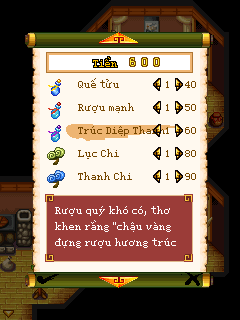
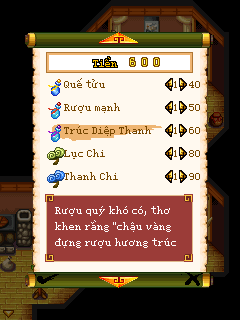
tsky: T7b bố cục cửa hàng (giá căn phải, khối số trước giá)
Claude-Session: https://claude.ai/code/session_01UHwqGer2W7xK9ARAi6GfrR

diff --git a/tsky/docs/render.md b/tsky/docs/render.md
@@ -182,7 +182,7 @@ Build: `./build.sh` (mặc định dùng `dich/dp_work/final/text_can_dich.tsv`,
 - **CG kể chuyện + mọi ô mô tả** (`Main/j.a(G,String,IIIII)` thay thân → `VH.scroll`): không còn cuộn 1 px/khung làm cắt nửa dòng ở mép clip. Bước dòng 16 px, mỗi trang `v = h/16` dòng nguyên (h=60 → 3 dòng, h=130 → 8 dòng), giữ `20 + 12·v` khung (15 khung/giây) rồi sang trang kế, hết thì về trang đầu; vừa khung thì vẽ tĩnh. Bỏ các dòng rỗng đầu (`"^^"+dk`). Ảnh 09, 10, 14, 15, 19, 21.
 - **Phím mềm**: `Main/j.y/z` ("Thoát"/"Quay lại", gốc `x = t - k.w*2 - 1`) → `VH.drawRight` (sát lề phải theo độ rộng thật: `x + 2·SW - w`); "Tạm dừng" (`j.i`) → `VH.drawMid`. Ảnh 06 (đo thật `Xác nhận` trái, `Quay lại` phải).
 - **Menu chính** (`Main/j.f`): mũi tên đo theo nhãn đang chọn (thay `stringArray[1]` bằng `stringArray[cR]`, 2 chỗ); ẩn "Game khác" (`更多游戏`, chỉ số 2) bằng `VH.menuSkip(cR, busy)` chèn đầu `f()`: khi không có màn con nào mở thì nhảy qua chỉ số 2 theo chiều bấm (từ <2 lên 3, từ >2 lùi 1); mã `platformRequest` vẫn nằm đó nhưng không tới được. Ảnh 01, 02.
-- **Cửa hàng** (`Main/e.a(G,String[][],…)` kiểu 1): cột số lượng/giá đặt sau tên **dài nhất** (`VH.widest` cache theo mảng) chứ không phải tên hàng đầu, rộng cột bị chặn 69 px (`VH.colWidth`), khoảng cách 20 → 6. Tên > 69 px đè lên cột số (danh sách ở PLAN.md, mục Vướng mắc). Ảnh 21, 22.
+- **Cửa hàng** (`Main/e.a(G,String[][],…)` kiểu 1, sửa ở T7b): giá căn phải sát mép trong khung (R = n2+n4-5), khối ◀số▶ ngay trước giá (`VH.shopCol` = R - 26 - rộng giá), tên bắt đầu ở n2+4 và dùng phần còn lại (đủ cho "Liệt Diễm Phiến" 88 px + giá 1000). Ảnh 21, 22, 26 (trong trận).
 - **Cache chuỗi nối**: `new StringBuffer().append(S)…toString()` chỉ gồm lệnh nạp thuần + `append(String)` (50 chỗ trong `Main/j`, `Main/e`, `rf/b`, xem `logs/patch.log` dòng `concat cache`) thay bằng `VH.cat(a,b,c,d,slot)`: giữ kết quả khi các phần tử cùng tham chiếu → hộp xác nhận (`string + "^"`), mô tả vật phẩm (`E[..][1] + "^"`), CG (`"^^" + dk + "^"`) không cấp phát mỗi khung; `VH.wrap` (ngắt dòng hộp xác nhận/trợ giúp) vốn đã cache theo nội dung.
 - **Dấu cách khi nối chuỗi dịch với biến** (`Patch.spaceConcat`): bản Trung ghép `tên + "放生成功"`, `"" + cấp + "级"`, `tên + "x" + n + "购买成功！"` không cần dấu cách, bản Việt thì dính ("5cấp", "Nhox1Mua thành công!"). Với mọi chuỗi nối trong `Main/j`/`Main/e`, hằng LDC là chuỗi dịch (có trong cột dịch của hàng `class:`) kề một phần tử không phải LDC (biến/số) được chèn dấu cách ở phía kề ("5 cấp", "Liệt Diễm Phiến x1=1000 vàng. Mua không?"); hằng `"x"` đứng sau biến → `" x"`. 45 chỗ, danh sách trong `logs/patch.log` (`space concat`). Không đụng `dich/`.
 - **Đã xem không cần sửa**: tên chiêu (ô 80 px, xem Vướng mắc), tên trạng thái, thông báo giữa màn (`di`, tự co theo số dòng), mẹo màn tải (2–3 dòng căn giữa), nhiệm vụ, tiên sủng đại toàn (tên đỏ căn giữa, mô tả cuộn trang), kho/ô lưu ("Trống" thay "空" nhờ `VH.map`), túi đồ (tên + `    xN` vừa khung 148 px kể cả "Trúc Diệp Thanh    x12"), hộp xác nhận 2 dòng (câu dài nhất vẫn 2 dòng).

diff --git a/tsky/PLAN.md b/tsky/PLAN.md
@@ -102,6 +102,7 @@ Trạng thái: `[ ]` chưa, `[~]` đang làm (ghi tên), `[x]` xong.
 
 ### Giai đoạn 4 — Hoàn thiện (A1)
 - [x] T7 Bố cục: khung thoại ≥3 dòng, ngắt px ở dấu cách, phân trang, canh giữa theo độ rộng thật, các màn menu/túi đồ/cửa hàng/chiến đấu/tiên sủng đại toàn/mẹo. Hoàn thành khi: ảnh chụp từng màn không tràn, không cắt đôi từ, không sót Hán.
+- [x] T7b Cửa hàng: giá căn phải sát mép trong khung, khối ◀số▶ ngay trước giá, tên dùng phần còn lại (chứa 88 px), không rút tên.
 - [x] T8 Ảnh có chữ: soát 327 PNG (`scripts/contact_sheet.py` ra lưới ảnh), danh sách `docs/anh_co_chu.tsv`, vẽ lại vào `res_vi/`. Hoàn thành khi: mọi ảnh có chữ Hán đã có bản Việt, `pixeltext check --size 12` OK.
 - [ ] T9 (ảnh 320 xong: `res_vi_320/Image/menu.png`, `namp.png`) Bản 320x240 theo QĐ 10. Hoàn thành khi: chụp FreeJ2ME 320x240 qua logo, menu, hội thoại, túi đồ, chiến đấu không tràn/méo; kiểm phím hướng dẫn bằng phím số.
 - [ ] T10 `rebuild.sh` (goc → out cả 2 bản + jad `MIDlet-Jar-Size` khớp), `run_emu.py` đi qua các màn chính 2 bản, `BAO_CAO.md`, `README_DU_AN.md`, `PROGRESS.md`, gói `TienSungKyDuyen_du_an.zip` theo mục Bàn giao của skill. **Quản đốc nghiệm thu.**
@@ -132,6 +133,7 @@ Trạng thái: `[ ]` chưa, `[~]` đang làm (ghi tên), `[x]` xong.
 - T7 (A1): bố cục xong, 25 ảnh `logs/shots_T7/`, jar_check PASS. VH: `scroll` (ô mô tả/CG cuộn theo trang, không cắt nửa dòng), `drawRight/drawMid` (phím mềm theo độ rộng thật), `menuSkip` (ẩn "Game khác"), `widest/colWidth` (cột cửa hàng), `cat` (cache chuỗi nối, 50 chỗ); Patch: mũi tên menu theo nhãn, `spaceConcat` (chèn dấu cách quanh chuỗi dịch nối với biến: "5 cấp", "x1=1000 vàng", 45 chỗ); thoại lề phải w-10; build.sh mặc định dùng bản dịch final; docs/render.md mục 10; `scripts/t7_emu.py` (--cwd, --follow), `scripts/t7_test_jar.py`, `scripts/t7_measure.py`.
 - T8c (A2): `ui_fight_mid.png` ô 3 (商) = nút mở cửa hàng trong trận, vẽ "Mua" viền đen; tsv + truoc_sau.png cập nhật.
 - T11-tool (A2): `tool_main/Tool_Viet_Hoa_NAM_P.zip` + `THAY_DOI.md`: BitmapFont thêm `SIZE_12` (class 47), pixeltext `--size 12`, check_all/selftest pass (zip gốc đã fail sẵn do f13c/f15c chỉnh tay, xem THAY_DOI.md). Chưa đẩy lên main.
+- T7b (A1): `Patch.patchShop` đổi bố cục hàng cửa hàng: tên từ n2+4, `VH.shopCol` (x khối số = R-26-rộng giá, R=n2+n4-5), khoảng cách trong khối 5→1; bỏ widest/colWidth; chụp lại `logs/shots_T7/21,22` và `26_cua_hang_trong_tran` (Liệt Diễm Phiến 88 px + giá 1000 vừa, không đè).
 
 ## Quyết định quản đốc sau T1/T2 (bổ sung QĐ, công nhân làm theo)
 - QĐ 2b: **Được thay cả thân method** (giữ nguyên tên/descriptor/access) cho `Main/g.a(char[],...)`, `rf/b.a(String,int)`, `rf/b.b(String,int)`, `rf/b.a(Graphics,...)` viền chữ, `Main/f.a(Graphics,String,...)` viền chữ: thân mới chỉ gọi `invokestatic VH.*` rồi return. Bỏ `println` mỗi ký tự trong `rf/b.b`. Ngắt dòng/trang tính 1 lần khi chuỗi đổi, cache trong VH.
